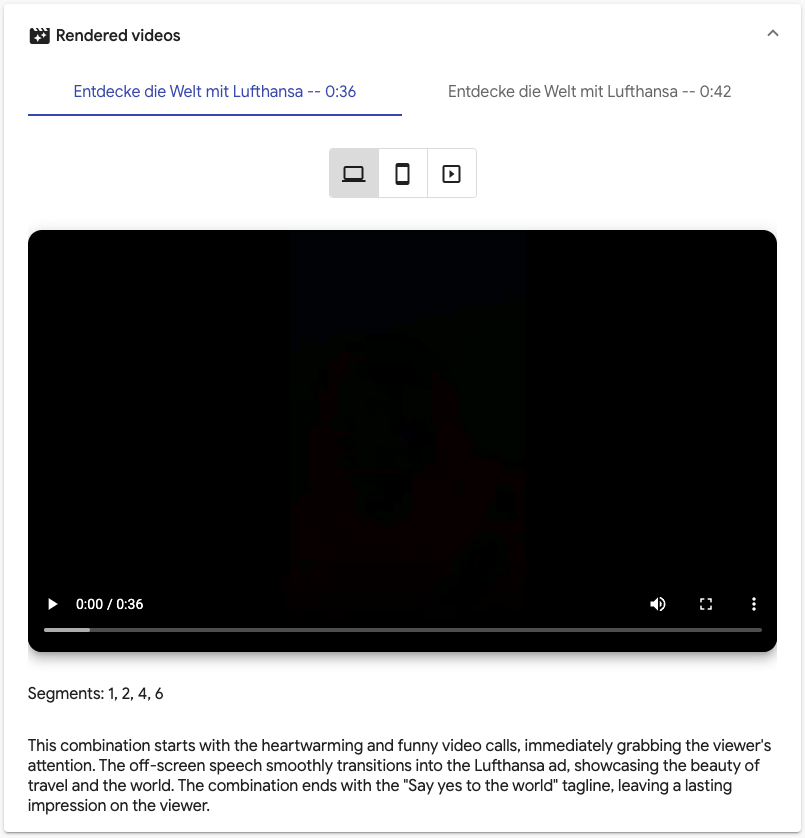
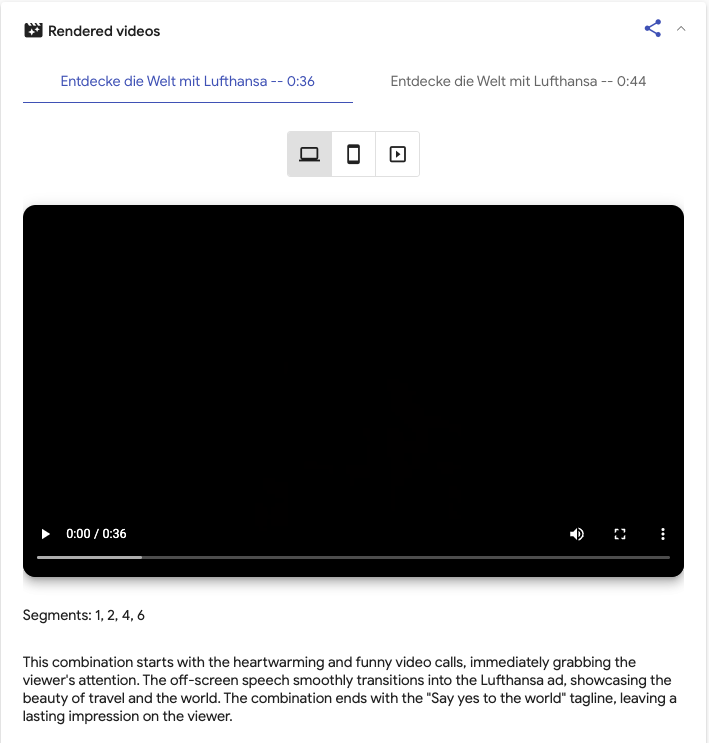
Update README and images to contain the new video folder and share links

diff --git a/README.md b/README.md
@@ -32,9 +32,11 @@ limitations under the License.
 
 Update to the latest version by running `npm run update-app` after pulling the latest changes from the repository via `git pull --rebase --autostash`; you would need to redploy the *UI* for features marked as `frontend`, and *GCP components* for features marked as `backend`.
 
+* [August 2024]
+  * `frontend`: You can now share a page of the Web App containing your rendered videos and all associated image & text assets via a dedicated link. Read more [here](#6-output-videos).
 * [July 2024]
-  * `frontend` + `backend`: We now render non-blurred vertical and square formats by dynamically framing the most prominent part of the video. Read more [here](#3-object-tracking-and-smart-framing)
-  * `frontend` + `backend`: You can now reorder segments by dragging & dropping them during the variants preview. Read more [here](#42-user-controls-for-video-rendering)
+  * `frontend` + `backend`: We now render non-blurred vertical and square formats by dynamically framing the most prominent part of the video. Read more [here](#3-object-tracking-and-smart-framing).
+  * `frontend` + `backend`: You can now reorder segments by dragging & dropping them during the variants preview. Read more [here](#42-user-controls-for-video-rendering).
   * `frontend` + `backend`: The UI now supports upload and processing of all video MIME types [supported by Gemini](https://cloud.google.com/vertex-ai/generative-ai/docs/multimodal/video-understanding#video_requirements).
   * `frontend`: You can now both focus on OR exclude (via a new checkbox) certain topics or elements of the input video during variants generation.
   * `backend`: The Demand Gen text assets generation prompt has been adjusted to better adhere to the ["Punctuation & Symbols" policy](https://support.google.com/adspolicy/answer/14847994).
@@ -179,6 +181,9 @@ The UI continuously queries GCS for updates while showing a preview of the uploa
   <center><img src='./img/preview-format-settings.png' width="600px" alt="Vigenair UI: Video format preview settings" /></center>
 
 * Once the `data.json` is available, the extracted A/V Segments are displayed along with a set of user controls.
+* Clicking on the link icon in the top-right corner of the "Video editing" panel will open the Cloud Storage browser UI and navigate to the associated video folder.
+
+  <center><img src='./img/gcsfolder.png' width="600px" alt="Vigenair UI: Open GCS folder link" /></center>
 
 #### 4.1. Variants Generation
 
@@ -244,9 +249,9 @@ Clicking on the `Render` button inside the render queue will render the variants
 
 #### 6. Output Videos
 
-The UI continuously queries GCS for updates. Once a `combos.json` is available, the final videos - in their different formats and along with all associated assets - will be displayed. Users can preview the final videos and select the ones they would like to upload into Google Ads / YouTube.
+The UI continuously queries GCS for updates. Once a `combos.json` is available, the final videos - in their different formats and along with all associated assets - will be displayed. Users can preview the final videos and select the ones they would like to upload into Google Ads / YouTube. Users may also share a page of the Web App containing the rendered videos and associated image & text assets via the dedicated "share" icon in the top-right corner of the "Rendered videos" panel.
 
-<center><img src='./img/rendered.png' width="600px" alt="Vigenair UI: Rendered videos display" /></center>
+<center><img src='./img/rendered.png' width="600px" alt="Vigenair UI: Rendered videos display with 'share' icon" /></center>
 
 ### Pricing and Quotas
 
